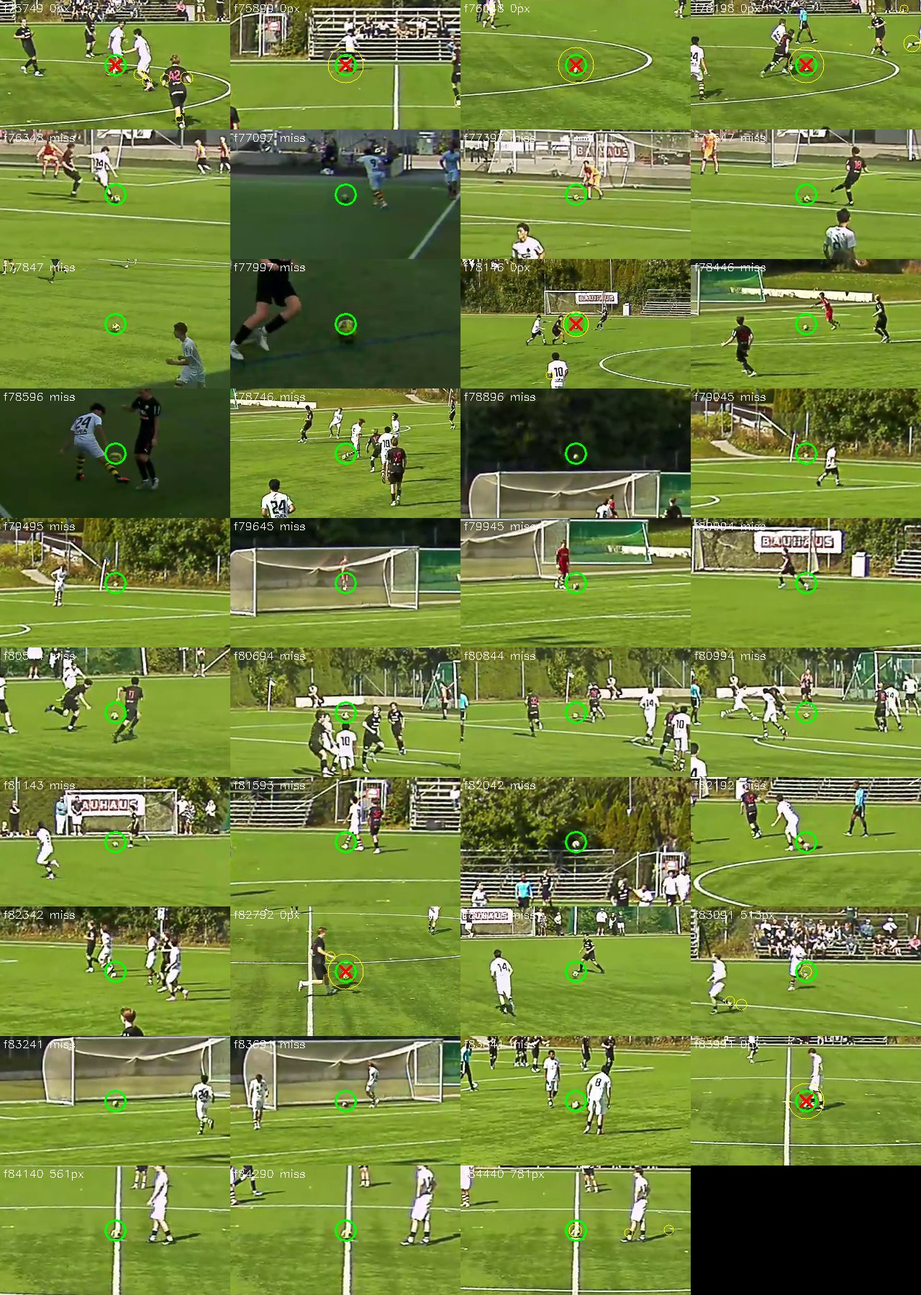
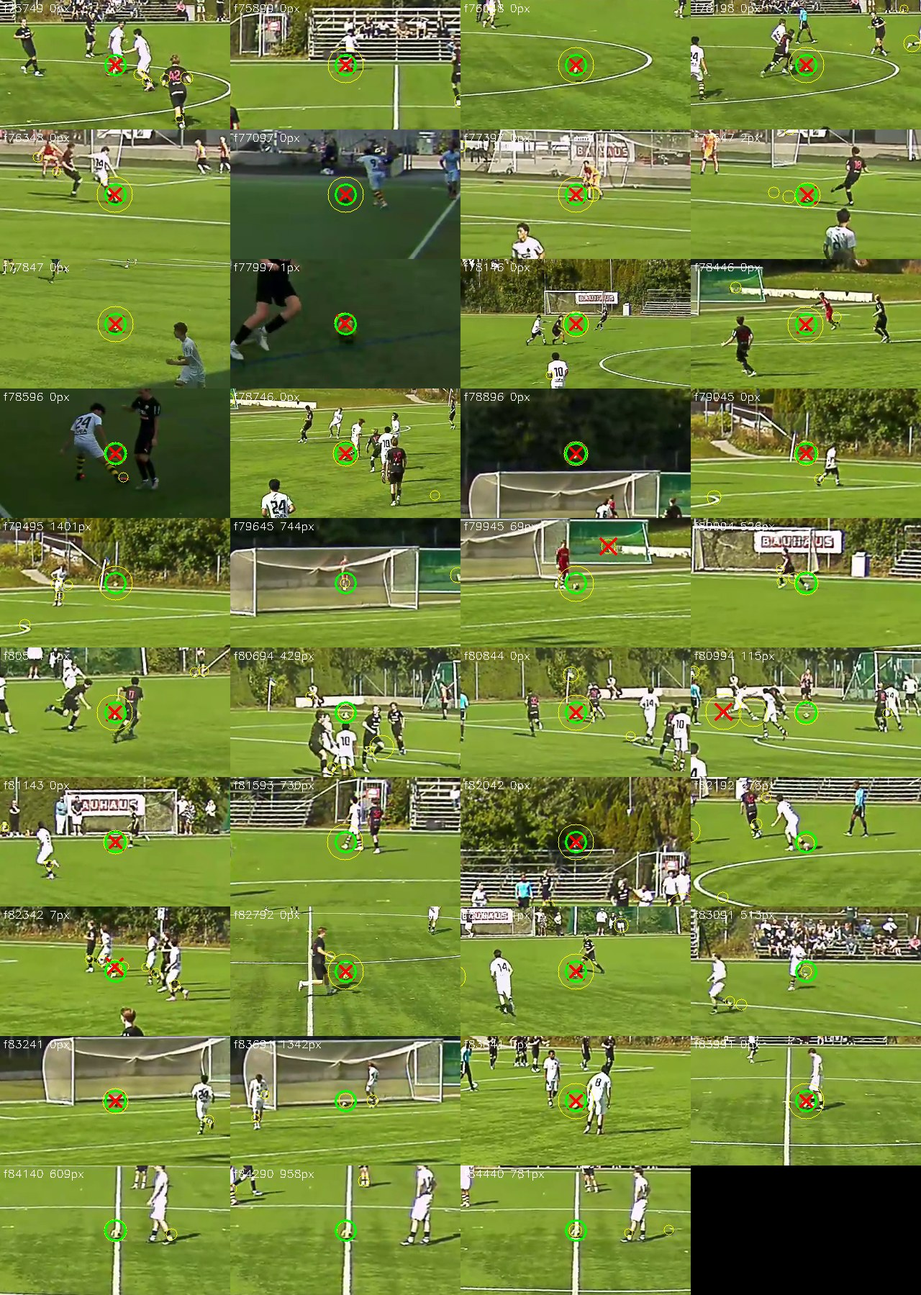
modal results

diff --git a/results/scoreboard.md b/results/scoreboard.md
@@ -29,3 +29,4 @@ Ball check = correct picks on held-out labelled frames; ceiling = frames where t
 | 2026-10-02 00:34 | 4a618c0 | SFKBP1109_full | 0.27.0 | —/— | — | — | withheld | withheld | — |  |
 | 2026-10-02 01:07 | 6662137 | SFKBP1109_full | ? | 25/34 | 30 | — | OK | withheld | {'A': 8.0, 'B': 7.0} |  · other picker v1: 15/34 · picker test SFKBP1109: v2 40/59, other 22/59 · picker test SFKBP1109b: v2 87/134, other 50/134 |
 | 2026-10-02 03:32 | 163b227 | p15u-vs-aik-2026-09-21-bd09_full | ? | 7/39 | 9 | — | withheld | withheld | {'A': 6.0, 'B': 7.0} |  · other picker v1: 5/39 · picker test p15u-vs-aik-2026-09-21-bd09: v2 4/62, other 1/62 |
+| 2026-10-02 03:49 | 57cdcff | p15u-vs-aik-2026-09-21-bd09_full | ? | 26/39 | 39 | — | OK | withheld | {'A': 6.0, 'B': 6.0} |  · other picker v1: 13/39 · picker test p15u-vs-aik-2026-09-21-bd09: v2 40/62, other 22/62 |
